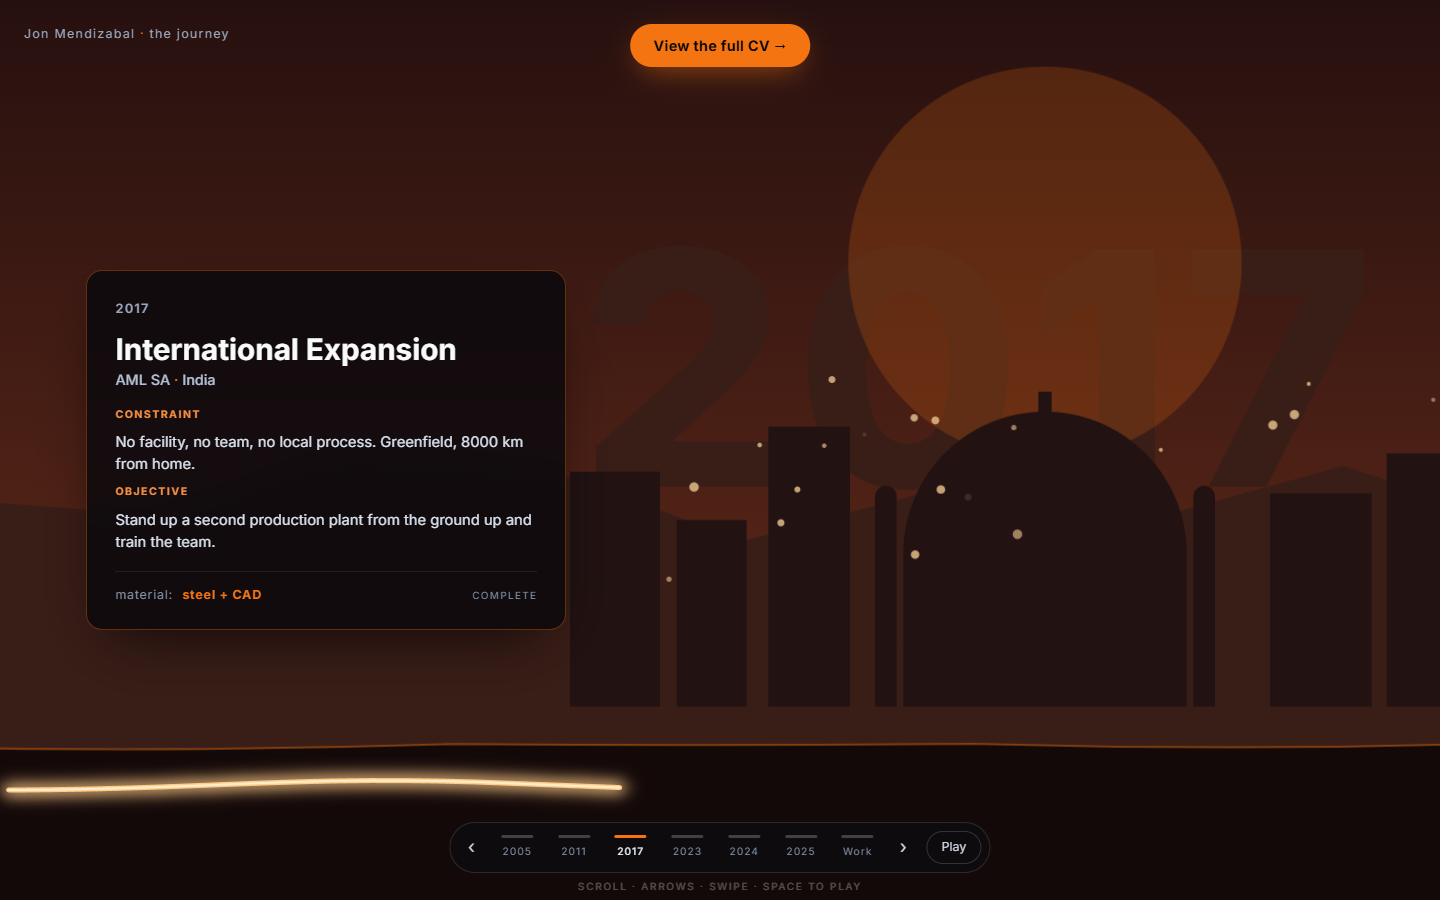
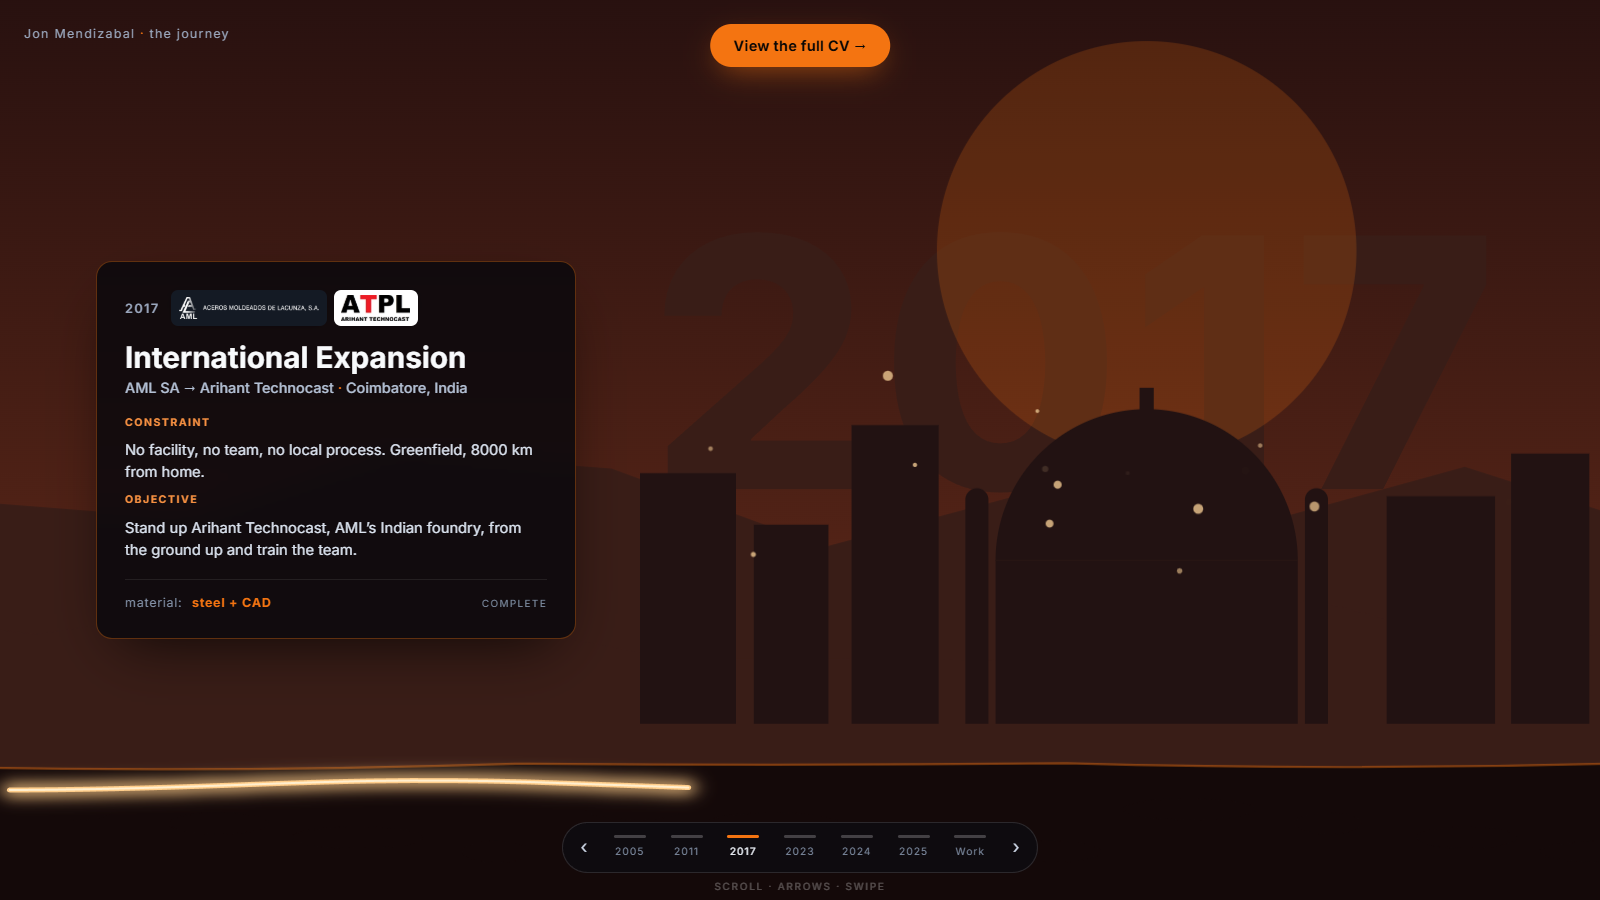
feat(journey): add ATPL mark, drop autoplay
ATPL is Arihant Technocast Private Limited, AML's Indian foundry and the
plant stood up in 2017 - so the India beat now carries both marks, reads
"AML SA -> Arihant Technocast · Coimbatore, India", and the CV bullet names
the entity instead of saying "new production facility".

Its logo needed a caveat on the tone test (D28): the file is 100% opaque
with a white background baked in, so the mean-luminance measure reads 0.59
("light artwork") despite being black text - the baked background dominates
the average. Check alpha coverage first and match the plate to the baked
background. Written up in docs/JOURNEY_PLAN.md §8b so the next addition does
not fall into it.

Removed autoplay (D30). At the timeline's authored rate you could not finish
reading a beat's title before it moved on, and fixing it properly would have
meant per-beat dwell logic for a feature that earns little on a seven-beat
journey. The Play button, the `playing` state and the gsap ticker that kept
the rail in sync are all gone; Space now means "next", which is what it
means in anything slideshow-shaped. The natural-rate scrub (D12) stands on
its own - it is simply the pacing the animation was authored at.

Verified: both India marks resolve, no Play button, Space advances 2005 ->
2011, hint reads "scroll · arrows · swipe", no broken images in either mode,
and every earlier journey check still passes.

diff --git a/src/journey/useJourneyDriver.js b/src/journey/useJourneyDriver.js
@@ -1,4 +1,3 @@
-import gsap from "gsap";
 import { useCallback, useEffect, useRef, useState } from "react";
 import { BEATS } from "./config";
 
@@ -10,7 +9,6 @@ export function useJourneyDriver(tl, stageRef, disabled = false, startIndex = 0)
   // startIndex matters: a deep link seeks the timeline directly, and if the
   // driver still believed it was at beat 0 it would ignore a click on beat 0.
   const [index, setIndex] = useState(startIndex);
-  const [playing, setPlaying] = useState(false);
   const busy = useRef(false);
   const idx = useRef(startIndex);
   const lastSeek = useRef(1);
@@ -30,7 +28,6 @@ export function useJourneyDriver(tl, stageRef, disabled = false, startIndex = 0)
 
       idx.current = clamped;
       setIndex(clamped);
-      setPlaying(false);
 
       if (instant) {
         // Picking a year off the rail should land on it, not replay the years
@@ -63,44 +60,6 @@ export function useJourneyDriver(tl, stageRef, disabled = false, startIndex = 0)
   const next = useCallback(() => goTo(idx.current + 1), [goTo]);
   const prev = useCallback(() => goTo(idx.current - 1), [goTo]);
   const jumpTo = useCallback((i) => goTo(i, { instant: true }), [goTo]);
-
-  // Autoplay: same timeline, just let it run and keep the rail in sync.
-  const togglePlay = useCallback(() => {
-    if (!tl) return;
-    seekTween.current?.kill();
-    busy.current = false;
-    if (playing) {
-      tl.pause();
-      setPlaying(false);
-      return;
-    }
-    if (idx.current === BEATS.length - 1) {
-      idx.current = 0;
-      setIndex(0);
-      tl.pause(0);
-    }
-    setPlaying(true);
-    tl.play();
-  }, [tl, playing]);
-
-  // Keep the rail honest while autoplaying. Uses the ticker rather than
-  // hijacking the timeline's onUpdate, which already belongs to render().
-  useEffect(() => {
-    if (!tl || !playing) return;
-    const sync = () => {
-      let at = 0;
-      BEATS.forEach((b, i) => {
-        if (tl.time() >= tl.labels[b.id] - 0.01) at = i;
-      });
-      if (at !== idx.current) {
-        idx.current = at;
-        setIndex(at);
-      }
-      if (!tl.isActive()) setPlaying(false);
-    };
-    gsap.ticker.add(sync);
-    return () => gsap.ticker.remove(sync);
-  }, [tl, playing]);
 
   // --- wheel: one gesture = one beat, so you always land on a beat ---------
   useEffect(() => {
@@ -135,9 +94,10 @@ export function useJourneyDriver(tl, stageRef, disabled = false, startIndex = 0)
         ArrowUp: prev,
         PageUp: prev,
       };
+      // Space reads as "next" in anything slideshow-shaped.
       if (e.key === " ") {
         e.preventDefault();
-        togglePlay();
+        next();
         return;
       }
       if (map[e.key]) {
@@ -147,7 +107,7 @@ export function useJourneyDriver(tl, stageRef, disabled = false, startIndex = 0)
     };
     window.addEventListener("keydown", onKey);
     return () => window.removeEventListener("keydown", onKey);
-  }, [next, prev, togglePlay, disabled]);
+  }, [next, prev, disabled]);
 
   // --- touch swipe ---------------------------------------------------------
   useEffect(() => {
@@ -172,5 +132,5 @@ export function useJourneyDriver(tl, stageRef, disabled = false, startIndex = 0)
   // Kill any in-flight scrub when the stage unmounts.
   useEffect(() => () => seekTween.current?.kill(), []);
 
-  return { index, goTo, jumpTo, next, prev, playing, togglePlay };
+  return { index, goTo, jumpTo, next, prev };
 }

diff --git a/src/data/journey.js b/src/data/journey.js
@@ -140,7 +140,7 @@ export const experience = [
         text: "Managed sand casting steel foundry production including MTO planning, CAD design, and process simulation",
       },
       {
-        text: "Led international expansion to India in 2017, establishing new production facility from ground up",
+        text: "Led international expansion to India in 2017, establishing *Arihant Technocast Private Limited* — AML’s Indian foundry — from the ground up",
       },
       {
         text: "Trained international teams and coordinated cross-cultural operations between countries",
@@ -264,16 +264,16 @@ export const beats = [
   },
   {
     id: "india",
-    orgs: ["aml"],
+    orgs: ["aml", "atpl"],
     year: "2017",
     railLabel: "2017",
     numeral: "2017",
-    place: "India",
-    org: "AML SA",
+    place: "Coimbatore, India",
+    org: "AML SA → Arihant Technocast",
     role: "International Expansion",
     material: "steel + CAD",
     constraint: "No facility, no team, no local process. Greenfield, 8000 km from home.",
-    objective: "Stand up a second production plant from the ground up and train the team.",
+    objective: "Stand up Arihant Technocast, AML’s Indian foundry, from the ground up and train the team.",
     status: "Complete",
     heat: 0.82,
     entryIds: ["exp-aml"],

diff --git a/src/data/orgLogos.js b/src/data/orgLogos.js
@@ -15,11 +15,20 @@ import leaArtibai from "../images/orgs/lea-artibai.webp";
 import sprinta from "../images/orgs/sprinta.webp";
 import lexicon from "../images/orgs/lexicon.svg";
 import londonMet from "../images/orgs/london-met.svg";
+import atpl from "../images/orgs/atpl.webp";
 import github from "../images/tools/github.webp";
 
 export const ORGS = {
   aml: { src: aml, tone: "light", label: "AML SA — Aceros Moldeados de Lacunza" },
   "lea-artibai": { src: leaArtibai, tone: "colour", label: "Lea-Artibai Ikastetxea" },
+  // Opaque, with a white background baked in, so a white plate is seamless.
+  // Note the luminance test misreads files like this — see the caveat in
+  // docs/JOURNEY_PLAN.md §8b.
+  atpl: {
+    src: atpl,
+    tone: "dark",
+    label: "Arihant Technocast Private Limited (ATPL)",
+  },
   "london-met": { src: londonMet, tone: "dark", label: "London Metropolitan University" },
   lexicon: { src: lexicon, tone: "colour", label: "Lexicon" },
   sprinta: { src: sprinta, tone: "dark", label: "Sprinta Consulting AB" },

diff --git a/src/journey/JourneyStage.jsx b/src/journey/JourneyStage.jsx
@@ -52,7 +52,7 @@ export default function JourneyStage({ onExit }) {
     };
   }, [reduced, start]);
 
-  const { index, jumpTo, next, prev, playing, togglePlay } = useJourneyDriver(
+  const { index, jumpTo, next, prev } = useJourneyDriver(
     tl,
     stageRef,
     reduced,
@@ -197,14 +197,11 @@ export default function JourneyStage({ onExit }) {
         >
           ›
         </button>
-        <button className="j-play" onClick={togglePlay}>
-          {playing ? "Pause" : "Play"}
-        </button>
       </div>
 
       <ProgressStream />
 
-      <p className="j-hint">scroll · arrows · swipe · space to play</p>
+      <p className="j-hint">scroll · arrows · swipe</p>
     </div>
   );
 }

diff --git a/src/styles/journey.css b/src/styles/journey.css
@@ -172,7 +172,6 @@
   padding: clamp(0.75rem, 2vw, 1.5rem);
 }
 
-.j-play,
 .j-nav {
   font: inherit;
   font-size: 0.78rem;
@@ -289,11 +288,6 @@
   cursor: default;
 }
 
-.j-play {
-  border: 1px solid rgb(255 255 255 / 0.16);
-  margin-left: 0.25rem;
-}
-
 .j-hint {
   position: absolute;
   bottom: 0.35rem;
@@ -336,10 +330,6 @@
   }
   .j-tick {
     width: 1.35rem;
-  }
-  .j-play {
-    margin-left: 0.15rem;
-    padding: 0.4rem 0.7rem;
   }
 }
 

diff --git a/docs/JOURNEY_PLAN.md b/docs/JOURNEY_PLAN.md
@@ -59,7 +59,7 @@ Recorded so they are not re-litigated in a later session.
 | D2 | The hero holds a **live idling miniature** of the world; clicking expands the *same* SVG to fullscreen | Hero becomes "beat 0". Shared-element transition, no jarring context switch |
 | D3 | **GSAP** for the journey cinematic | Only library with the needed primitive: timeline **labels** + `tweenTo(label)`. Free including formerly-paid plugins (DrawSVG, MotionPath, MorphSVG, SplitText) |
 | D4 | One **paused timeline**, many **drivers** | Animation code knows nothing about input. Add wheel/keys/swipe/autoplay/deep-links later without touching animation |
-| D5 | Default driver: **wheel advances one beat** (debounced), plus progress rail, arrow keys, swipe, and a `Play` autoplay | Feels like scrolling (nothing to learn) but always lands cleanly on a beat |
+| D5 | Default driver: **wheel advances one beat** (debounced), plus progress rail, arrow keys and swipe | Feels like scrolling (nothing to learn) but always lands cleanly on a beat. Autoplay was tried and removed — see D30 |
 | D6 | **The molten stream is the protagonist**, not a character | Character art and walk cycles are what kill these projects. Animating one path is ~40 lines and looks expensive |
 | D7 | Art is **authored as SVG in code**. No AI raster images | Rasters kill the heat-shift recolor, kill per-element animation, kill seamless parallax layers, and weigh MBs vs ~30KB |
 | D8 | Text lives in **real DOM** over the SVG, never inside it | Selectable, translatable, screen-readable, indexable |
@@ -80,6 +80,7 @@ Recorded so they are not re-litigated in a later session.
 | D23 | The closing beat keeps its **explainer card** and puts a **wall of pinned work** beside it: six tiles, absolutely placed at uneven sizes and slight angles | A tidy grid read as a spreadsheet. Hovering straightens a tile and lifts it, like picking a print off a wall. Positions live in the `LAYOUT` table in `ProjectGallery.jsx` |
 | D27 | **Logos everywhere**: a mark per organisation on both card types, and a tech logo inside every stack pill | Sourced from each organisation's own site (see below). Tech marks reuse `src/images/tools/` so both modes draw from the same assets |
 | D28 | Every logo declares a **`tone`** describing its ARTWORK, and is drawn on a plate/disc coloured from that tone | Not a guess — measured from each file's mean non-transparent luminance, threshold 0.55. Near-white marks (Mithril 0.90, RAG 0.78) were invisible on a white disc; AML's white wordmark is invisible on a light theme. One component then works on the journey's dark scenes and the CV's light theme with no filters and no per-theme assets |
+| D30 | **No autoplay.** The Play button is gone, along with the ticker that kept the rail in sync; `Space` now means "next" | At the timeline's authored rate you could not finish reading a beat's title before it moved on, and slowing it down would have meant per-beat dwell logic for a feature nobody needs on a seven-beat journey. Stepping is smooth and takes one keypress |
 | D29 | `.NET` shares one pill with C# as **"C# / .NET"** | No .NET mark exists in the repo and none is cleanly obtainable. Two identical C# discs side by side looked like a bug; a recruiter reads the two together anyway |
 | D26 | Gallery clips **autoplay while the beat is on screen**, and the detail overlay is a **drawer over the lower part only** | With a full-cover overlay there was no hover left to start a video with, so nothing ever played. Autoplay is gated on the beat being current — six clips do not decode through the whole journey — and the drawer leaves the clip visible above it |
 | D24 | Project media lives in **`src/data/projectMedia.js`**, shared by Résumé mode and the gallery | The title→media mapping was hardcoded inside `Projects.jsx`; duplicating it for the journey would have guaranteed drift |
@@ -415,6 +416,7 @@ from 108 kB to 2.8 kB. SVGs are kept as vectors.
 | `lea-artibai` | `lea-artibai.webp` | leartik.eus `/images/logo_header_lea_2026.png` | colour |
 | `london-met` | `london-met.svg` | londonmet.ac.uk site-assets | dark |
 | `lexicon` | `lexicon.svg` | lexicongruppen.se `/media/wi5hphtd/lexicon-logo.svg` | colour |
+| `atpl` | `atpl.webp` | arihanttechnocastindia.com `/wp-content/themes/atpl/images/logo.png` | dark |
 | `sprinta` | `sprinta.webp` | sprinta.se `/assets/Sprinta_webb.png` (found in the Angular bundle) | dark |
 | `github` | reuses `tools/github.webp` | already in the repo | dark |
 
@@ -429,6 +431,13 @@ vis = [(r,g,b) for r,g,b,a in im.getdata() if a > 40]
 print(sum(0.2126*r + 0.7152*g + 0.0722*b for r,g,b in vis) / len(vis) / 255)
 # > 0.55 -> tone "light" (dark plate);  <= 0.55 -> tone "dark" (light plate)
 ```
+
+**Caveat:** the test assumes transparency. A fully opaque file has its
+background baked in, which dominates the mean and gives the wrong answer —
+ATPL reads 0.59 ("light") despite being black text, because it carries a
+white background. Check alpha coverage first: if the file is ~100% opaque,
+match the plate to its baked background instead (white background -> tone
+`"dark"`, so the white plate blends in seamlessly).
 
 ---
 
@@ -457,7 +466,8 @@ animation, and seamless parallax layering.
 | Date | Session did | Next up |
 |---|---|---|
 | 2026-09-10 | Brainstorm → locked D1–D10. Branch `feat/interactive-journey`, gsap 3.15.0, this plan. Phase 1 prototype built and rendered in both art styles. Found and fixed the parallax scene-bleed gotcha. Footer year made dynamic (separate commit, cherry-pick to master). | Resolve **O1** art style, then Phase 0 before Phase 2 |
-| 2026-09-11 | Logos throughout (D27–D29). Pulled the five real organisation logos from their own sites, optimised them into `src/images/orgs/` (AML went 108 kB → 2.8 kB), and added marks to the journey beat cards and the CV timeline cards. Every stack pill now carries its tech logo on a tone-matched disc. | **ATPL** — unidentified, needs the user. Then **Phase 4**, **O2** Vite, **O4** |
+| 2026-09-11 (2) | Added the ATPL mark: **Arihant Technocast Private Limited**, AML's Indian foundry — the plant stood up in 2017. The India beat now carries both marks and names the entity in the CV bullet. Removed autoplay entirely (D30). | **Phase 4**, **O2** Vite, **O4** |
+| 2026-09-11 | Logos throughout (D27–D29). Pulled the five real organisation logos from their own sites, optimised them into `src/images/orgs/` (AML went 108 kB → 2.8 kB), and added marks to the journey beat cards and the CV timeline cards. Every stack pill now carries its tech logo on a tone-matched disc. | ~~ATPL~~ resolved next session |
 | 2026-09-10 (5) | Reworked the closing beat to what it is now (D23, D26): explainer card restored beside a scattered, tilted wall of six tiles; clips autoplay while the beat is current; the detail overlay became a bottom drawer so the clip stays visible. Fixed the touch branch, which set the drawer opaque without sliding it in — on a real phone the tiles showed nothing. | **Phase 4** game mechanics; then **O2** Vite, **O4** |
 | 2026-09-10 (4) | Closing beat became a media gallery: real screenshots and clips, detail overlays, shared project-media map (D24) with `Projects.jsx` pointed at it. Simplified locations (D25). | superseded next session by D23/D26 |
 | 2026-09-10 (3) | Journey is now the default landing (D17) with a prominent centred way out (D18). Stream reworked into a screen-anchored progress bar (D19). Added the **Selected Work** closing beat linking through to the full project list (D20). Replaced the internal architecture graph with a recognisable tech stack (D21), then reshaped it from rigid columns into a pill-and-curve flow with AI branching off the backend (D22). Fixed the never-actually-centred beat card, an index-keyed special case that broke when the new beat was added, and hash-only navigation. | **Phase 4** game mechanics; then **O2** Vite, **O4** |
